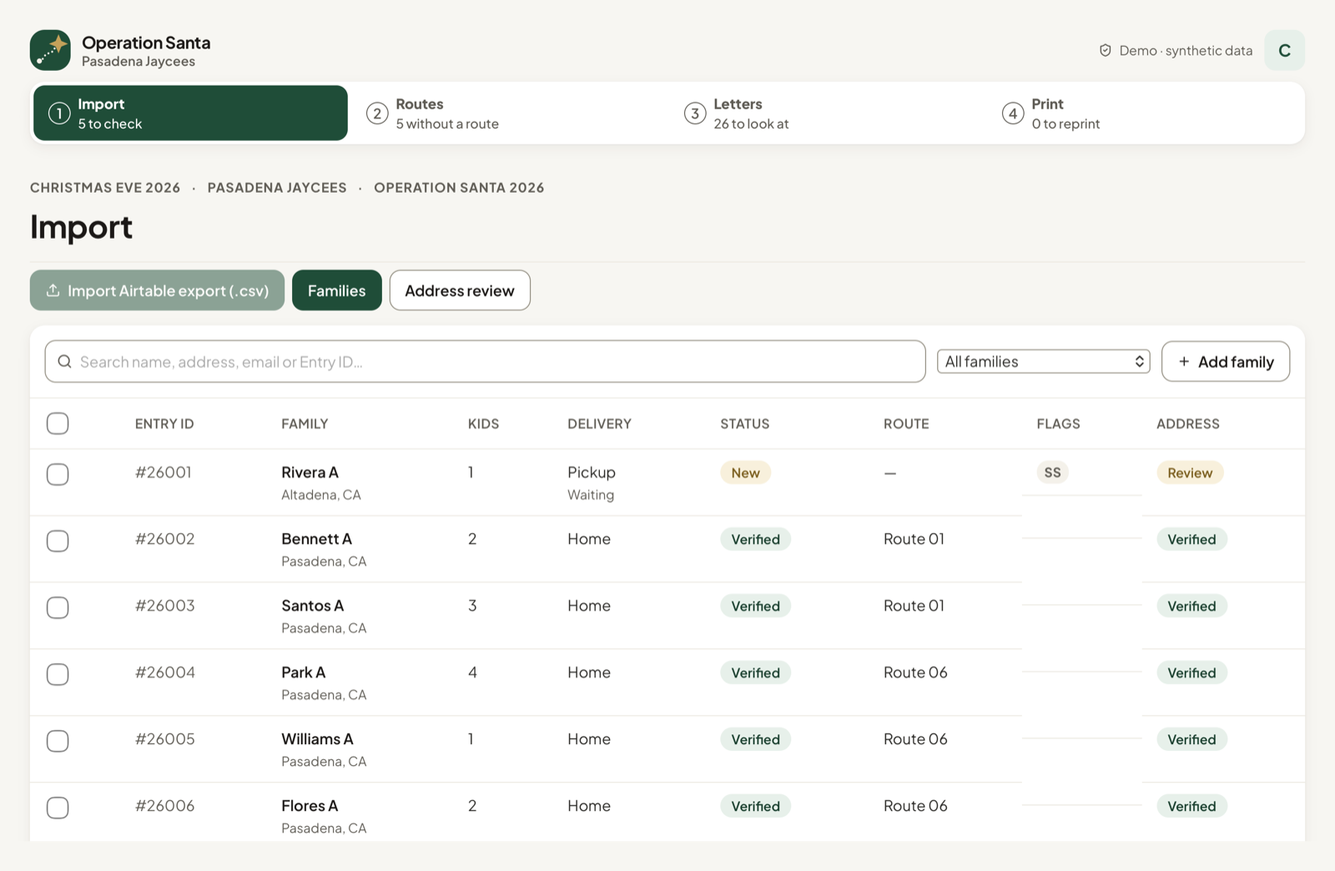
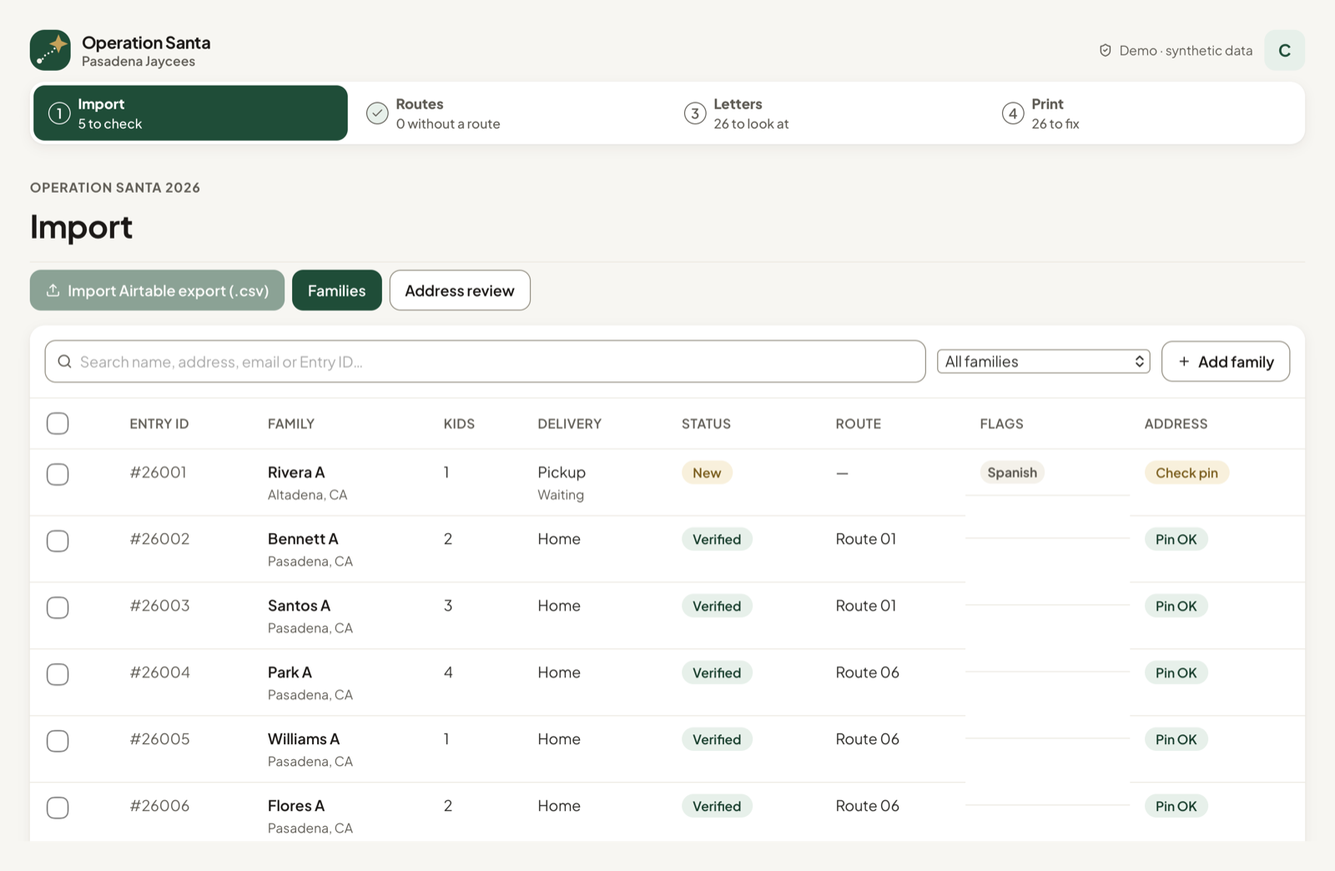
Guides, screenshots and E2E for the release UX changes
RELEASE-UX-PLAN commit 7.

- Site pages: the tour describes the four steps as the task list, with
  no Overview; Families, Letters, Address review, Teams, Settings, the
  change log, Print's checks and the import page describe the new
  behavior (translations, Airtable hold, Pin OK / Check pin, the Maps
  link, the unsaved-changes bar, the Teams table).
- Guide screenshots retaken; workspace.png replaces overview.png.
- Two E2E assertions updated for intended changes: the Routes step can
  show its check mark while families wait on addresses, and a purged
  season has no uploads panel.

diff --git a/e2e/specs/season-security.e2e.ts b/e2e/specs/season-security.e2e.ts
@@ -20,6 +20,6 @@ describe('Season security: remembered passphrase and post-season purge',()=>{
  it('reopens without asking when the keychain has the passphrase',async()=>{await lockSeason();await reopen();await toast(/Encrypted season open/);assert.equal(await $('[aria-label="Unlock your season"]').isExisting(),false,'no passphrase prompt');await mocks.secretGet.update();assert.ok(mocks.secretGet.mock.calls.some(c=>(c[0] as {name:string}).name===key),'looked up the key for this file');});
  it('falls back to asking when the remembered passphrase is wrong',async()=>{await setE2e({secrets:{[key]:'not the passphrase at all'}});await lockSeason();await reopen();await dialogText('Unlock your season');await newPassphrase(PASSPHRASE);await click('Open season');await toast(/Encrypted season open/);});
  it('purges only after the exact typed confirmation',async()=>{await nav('Settings');await seasonAction('Purge sensitive records');const warning=await dialogText('Purge sensitive records');assert.match(warning,/emails/i,'the dialog says emails are deleted');assert.match(warning,/addresses, map pins/i,'the dialog says addresses and map pins are deleted');assert.ok(!/emails[^.]*stay/i.test(warning),'the dialog must not promise to keep emails');const purge=await button('Purge now');assert.equal(await purge.isEnabled(),false);await setInput(field('Type PURGE CHILD DATA to continue'),'purge child data');assert.equal(await purge.isEnabled(),false,'lower-case confirmation is not enough');await setInput(field('Type PURGE CHILD DATA to continue'),'PURGE CHILD DATA');assert.ok(backupCount()>0,'the import took a backup in app data before the purge');await click('Purge now');await toast(/Purged families:10, children:19/,60000);assert.equal(backupCount(),0,`backups holding pre-purge data remain in ${backupsDir()}`);assert.match(await pageText(),/Purged \d/);});
- it('removes names, phones, emails, letters and drawings, keeping only counts',async()=>{await nav('Families');const t=await pageText();for(const f of families){assert.ok(!t.includes(f.name),`${f.name} survived the purge`);assert.ok(t.includes(`Family ${f.id}`));assert.ok(!t.includes(`${f.house} ${f.ordinal} ${f.street}`),`${f.id}'s address survived the purge`);}assert.match(t,/10 families · 19 children/,'counts are kept');await setInput($('input[aria-label="Search families"]'),'@example.invalid');assert.equal((await $$('tbody tr')).length,0,'no family can be found by email after the purge');await setInput($('input[aria-label="Search families"]'),'Family 26001');await $('tbody tr').click();await dialogText('Family 26001 · #26001');assert.equal(await field('Email').getValue(),'','email removed');assert.equal(await field('Phone').getValue(),'','phone removed');assert.equal(await field('Street address').getValue(),'','street removed');assert.equal(await field('ZIP code').getValue(),'','ZIP removed');assert.equal(await field('Hardship').getValue(),'','hardship answer removed');await click('Children & letters (2)');assert.equal(await field('Name').getValue(),'Child 1');assert.equal(await field('Letter to Santa').getValue(),'','letter text removed');await $('[role="dialog"] button[aria-label="Close dialog"]').click();await nav('Letter cleanup');assert.match(await pageText(),/UPLOADS\s*0\/0 ready/,'drawings removed');});
+ it('removes names, phones, emails, letters and drawings, keeping only counts',async()=>{await nav('Families');const t=await pageText();for(const f of families){assert.ok(!t.includes(f.name),`${f.name} survived the purge`);assert.ok(t.includes(`Family ${f.id}`));assert.ok(!t.includes(`${f.house} ${f.ordinal} ${f.street}`),`${f.id}'s address survived the purge`);}assert.match(t,/10 families · 19 children/,'counts are kept');await setInput($('input[aria-label="Search families"]'),'@example.invalid');assert.equal((await $$('tbody tr')).length,0,'no family can be found by email after the purge');await setInput($('input[aria-label="Search families"]'),'Family 26001');await $('tbody tr').click();await dialogText('Family 26001 · #26001');assert.equal(await field('Email').getValue(),'','email removed');assert.equal(await field('Phone').getValue(),'','phone removed');assert.equal(await field('Street address').getValue(),'','street removed');assert.equal(await field('ZIP code').getValue(),'','ZIP removed');assert.equal(await field('Hardship').getValue(),'','hardship answer removed');await click('Children & letters (2)');assert.equal(await field('Name').getValue(),'Child 1');assert.equal(await field('Letter to Santa').getValue(),'','letter text removed');await $('[role="dialog"] button[aria-label="Close dialog"]').click();await nav('Letter cleanup');const after=await pageText();assert.ok(!/UPLOADS\s*\d/.test(after)&&!after.includes('DOWNLOADING · FAILED'),`drawings removed: with no uploads left, the uploads panel is gone (RELEASE-UX-PLAN item 13). ${after.slice(0,300)}`);});
  it('stays purged after reopening the encrypted file',async()=>{await setE2e({secrets:{}});await lockSeason();await reopen();await dialogText('Unlock your season');await newPassphrase(PASSPHRASE);await click('Open season');await toast(/Encrypted season open/);await nav('Families');const t=await pageText();assert.ok(t.includes('Family 26001')&&!t.includes('Alder Test'));});
 });

diff --git a/e2e/specs/scope.e2e.ts b/e2e/specs/scope.e2e.ts
@@ -22,7 +22,9 @@ describe('Scope: only features grounded in the 2025 problems',()=>{
   await practiceSeason();
   await browser.waitUntil(async()=>(await browser.execute(()=>window.innerWidth))>=1000,{timeoutMsg:'the window did not grow into the workspace'});
   assert.deepEqual(await $$('.step-bar strong').map(el=>el.getText()),['Import','Routes','Letters','Print']);
-  assert.deepEqual(await $$('.step-bar .step-number').map(el=>el.getText()),['1','2','3','4']);
+  // A step that had work and has none left shows a check mark instead of its number (here Routes: the demo's families waiting on an address are Import's work, RELEASE-UX-PLAN item 4).
+  const numbers=await $$('.step-bar .step-number').map(async el=>(await el.getText())||await el.getAttribute('aria-label'));
+  assert.equal(numbers.length,4);numbers.forEach((n,i)=>assert.ok(n===String(i+1)||n===`Step ${i+1}, done`,`step ${i+1} shows "${n}"`));
  });
  // RELEASE-UX-PLAN items 12 and 16: Overview repeated the step bar, Routes and Print, so it's gone; the header names only the season.
  it('has no Overview, and the header names only the season',async()=>{assert.ok(!/days to Christmas Eve/.test(await pageText()));await $('button.avatar').click();await $('[role="dialog"]').waitForExist();await absent('Overview');await closeDialog();assert.equal(await $('.eyebrow').getText(),'Operation Santa 2026');assert.equal(await $('.stats-grid').isExisting(),false);});

diff --git a/e2e/guides/screenshots.e2e.ts b/e2e/guides/screenshots.e2e.ts
@@ -28,6 +28,8 @@ describe('Guide screenshots (demo season)',()=>{
  it('takes every screenshot it can',async function(){this.timeout(15*60_000);
   await snap('create-or-open',async()=>{});
   await practiceSeason();
+  // The tour's picture of the whole window (Overview, which it used to show, is gone: RELEASE-UX-PLAN item 12).
+  await snap('workspace',async()=>{await nav('Families')});
   await snap('families-filter',async()=>{await nav('Families');await $('select[aria-label="Filter families"]').click()});
   await snap('address-review',async()=>{await nav('Address review');const t=await $('//button[starts-with(normalize-space(.),"Addresses (")]');if(await t.isExisting())await t.click();await $('//button[normalize-space(.)="Pin is right"]').scrollIntoView({block:'end'})});
   await snap('letter-cleanup',async()=>{await nav('Letter cleanup')});

diff --git a/site/FEATURE-INVENTORY.md b/site/FEATURE-INVENTORY.md
@@ -20,9 +20,8 @@ Features cut on 2026-10-30 aren't listed and aren't documented anywhere on the s
 | Update offer at launch: **Install and restart** / **Later** | banner under the page title | `main.tsx`, `updates.ts`, `main.rs` `restart_app` | C | `updates.e2e.ts`, unit | `start-here/install.md` |
 | **Check for updates** | Settings ▸ "Your season, on your device" | `more.tsx`, `main.tsx` `checkUpdates` | C | `updates.e2e.ts` | `start-here/install.md` |
 | Updates paused Dec 20–26 | automatic | `updates.ts` `updateWindowOpen` | everyone | unit | `start-here/install.md`, `christmas-eve/north-pole.md` |
-| Demo season with fictional families on first launch | Overview banner, **New season** | `main.tsx`, `solver.ts` `demo`, `model.ts` `demoSeason` | everyone | `scope.e2e.ts` (runs on it) | `start-here/tour.md` |
+| Demo season with fictional families (test and guide builds only) | none in the app | `main.tsx`, `solver.ts` `demo`, `model.ts` `demoSeason` | everyone | `scope.e2e.ts` (runs on it) | `start-here/tour.md` |
 | Top bar: tab icons, badges, bell (open tasks), save state, **Import families** / **Plan routes** shortcut, avatar menu | every page | `main.tsx` | everyone | `scope.e2e.ts` (tab names) | `start-here/tour.md` |
-| Overview: stat cards, funnel, "Route overview", "Task list" | Overview | `main.tsx` | C | none | `start-here/tour.md` |
 | "Leave a note for the next person" reason prompt (8 reasons, "other" needs text) | appears only for a change to a printed route | `main.tsx` `withReason`, `model.ts` `needsReason` | C, RP, LC | `planning-and-pickup.e2e.ts`, unit | `routing/late-changes.md`, `start-here/tour.md` |
 | Error banner and toasts | every page | `main.tsx` | everyone | none | `reference/troubleshooting.md` |
 
@@ -45,7 +44,7 @@ Features cut on 2026-10-30 aren't listed and aren't documented anywhere on the s
 
 | Feature | Where in the app | Code | Who | Evidence | Guide |
 |---|---|---|---|---|---|
-| **Import families** (Airtable "Download CSV" `.csv`, or `.xlsx`) | top bar on Overview and Families | `main.tsx` `handleImport`, `importer.ts` `parseImport` | C | `journey.e2e.ts`, `airtable-export.e2e.ts`, unit | `sign-ups/import-csv.md` |
+| **Import families** (Airtable "Download CSV" `.csv`, or `.xlsx`) | Import ▸ Families | `main.tsx` `handleImport`, `importer.ts` `parseImport` | C | `journey.e2e.ts`, `airtable-export.e2e.ts`, unit | `sign-ups/import-csv.md` |
 | 2025 form profile: Entry ID, address parts, up to 13 children, hardship (any year), poverty → "Rudolph Route", Spanish detection | import | `importer.ts` `parseRows` | C | unit, `airtable-export.e2e.ts` | `sign-ups/import-csv.md`, `reference/files.md` |
 | "Review your import": new / changed / missing / uploads / proposed-flag counts, field-by-field diff, warnings (missing columns, unknown hardship answers, child-count mismatch), **Cancel import** / **Accept import** | modal | `main.tsx` | C | `journey.e2e.ts`, `airtable-export.e2e.ts` | `sign-ups/import-csv.md` |
 | Re-import is safe: in-app edits win, missing families flagged not deleted, changed addresses re-geocoded | Accept import | `importer.ts` `mergeImport` | C | `airtable-sync.e2e.ts`, unit | `sign-ups/import-csv.md` |
@@ -62,7 +61,7 @@ Features cut on 2026-10-30 aren't listed and aren't documented anywhere on the s
 |---|---|---|---|---|---|
 | Search (name, address, email, Entry ID) | Families | `main.tsx` | C, RP | none | `sign-ups/families.md` |
 | Filters: All families, Home delivery, Pickup, Special delivery, New, Verified, Not on a route, Proposed flags, Missing from latest import, Cancelled | Families | `main.tsx` | C, RP | none | `sign-ups/families.md` |
-| Table columns and flag legend (SS, ET, AAF, DNSWV, "?" proposed) | Families | `main.tsx` | C, RP | none | `sign-ups/families.md` |
+| Table columns; flags as words (Spanish, Extra toys, Adopt, Held, Airtable hold, "?" proposed); Pin OK / Check pin | Families | `main.tsx` | C, RP | none | `sign-ups/families.md` |
 | Bulk edit: **Set status…**, **Set delivery…**, **Add flag…**, **Remove flag…**, **Clear** | Families, after ticking rows | `main.tsx` `bulk` | C | none | `sign-ups/families.md` |
 | **Add family** (manual Entry IDs from 90001; never flagged missing) | Families | `main.tsx`, `model.ts` `nextManualId` | C | `scope.e2e.ts` (button present) | `sign-ups/families.md` |
 | Family editor, Details tab: contact and address, Delivery, Status, Pickup RSVP, Rudolph Route, Hardship, Answer language, flags, printed notes, coordinator notes, Route | click a row | `main.tsx` `FamilyModal` | C, RP | `journey.e2e.ts` (Save family) | `sign-ups/families.md` |
@@ -151,7 +150,7 @@ Features cut on 2026-10-30 aren't listed and aren't documented anywhere on the s
 | Feature | Where in the app | Code | Who | Evidence | Guide |
 |---|---|---|---|---|---|
 | Change log: search, newest 500, before/after, reason ("Before printing" when none) | Change log | `more.tsx` `ChangeLog`, `model.ts` `audit` | C | none | `reference/change-log.md` |
-| Change log **Export CSV** | Change log | `more.tsx` | C | none | `reference/change-log.md` |
+| Change log **Export change log (.csv)**; Change column shows before → after, search reads the values | Change log | `more.tsx` | C | none | `reference/change-log.md` |
 | Settings: Season, North Pole and delivery window, Service area, Printing (children per bag), Advanced, Airtable; **Save settings** with validation | Settings | `more.tsx` | C | `airtable-sync.e2e.ts`, `cleanup-packets.e2e.ts` | `reference/settings.md` |
 | Settings ▸ Advanced switches, off by default: **Airtable Sync**, **Send letters to helpers**. With a switch off, its buttons aren't rendered | Settings | `model.ts` `features`, `more.tsx` | C | `scope.e2e.ts`, `airtable-sync.e2e.ts`, `cleanup-packets.e2e.ts`, unit | `reference/settings.md` |
 | **Purge sensitive records**: type PURGE CHILD DATA, **Purge now**; deletes backups; Jan 31 reminder | Settings ▸ "After the season" | `main.tsx`, `workflow.ts` `purge`, `main.rs` `vacuum_season`/`purge_backups` | C | `season-security.e2e.ts`, unit | `after-the-season/purge.md` |
@@ -163,5 +162,5 @@ Features cut on 2026-10-30 aren't listed and aren't documented anywhere on the s
 | Browser preview (`npm run dev`) | Developer tool with synthetic data only. Covered by the repo README. |
 | E2E build (`e2e` Cargo feature) | Must never reach volunteers. Covered by `e2e/README.md`. |
 | ~~Family statuses "delivered" and "missed"~~ | Removed (Nov 5): older season files turn them back into routed or verified. |
-| Overview funnel (Imported → Verified → Geocoded → Routed) | Described in one line in the tour. The 2026-10-30 audit called it "not grounded"; it's still in the app. See open questions. |
+| Overview page (stat cards, funnel, Route overview, Task list) and its season-menu and menu-bar items | Removed (Nov 20): the step bar, Routes and Print already show all of it. |
 | `asset_*`, `vacuum_season`, `write_export` and other internal commands | No direct user action; they run behind the features above. |

diff --git a/site/start-here/tour.md b/site/start-here/tour.md
@@ -2,7 +2,7 @@
 title: A tour of the app
 parent: Start here
 nav_order: 3
-description: "The top bar, the Overview task list, and the reason prompt you'll see after printing."
+description: "The four steps along the top, and the reason prompt you'll see after printing."
 ---
 
 # A tour of the app
@@ -13,39 +13,20 @@ description: "The top bar, the Overview task list, and the reason prompt you'll 
 1. TOC
 {:toc}
 
-![The whole app window on the demo season's Overview, with the navigation along the top]({{ '/assets/images/overview.png' | relative_url }})
+![The whole app window on the demo season, with the four steps along the top]({{ '/assets/images/workspace.png' | relative_url }})
 
 ## The top bar
 
-The four numbered steps show how much work remains in the open season.
+The four numbered steps are the app's task list. Each says how much work is left in the open season and gets a check mark once it had work and none is left.
 
-| Step | What you can do |
-|---|---|
-| **1 Import** | Import a sign-up export, search Families, and open Address review. |
-| **2 Routes** | Plan deliveries, assign Teams, and adjust Route settings. |
-| **3 Letters** | Review the letters the app flags. |
-| **4 Print** | Check route packets, export PDFs, and reprint changed routes. |
+| Step | What you can do | What its count means |
+|---|---|---|
+| **1 Import** | Import a sign-up export, search Families, and open Address review. | Addresses, duplicates, out-of-area families and proposed flags to check. While there are any, clicking the step opens Address review. |
+| **2 Routes** | Plan deliveries, assign Teams, and adjust Route settings. | Families you could put on a route now. Families still waiting on an address are counted in step 1. |
+| **3 Letters** | Review the letters the app flags. | Letters that need a look. |
+| **4 Print** | Check route packets, export PDFs, and reprint changed routes. | Before anything is printed: the problems that block printing. After that: the routes to reprint. |
 
-Click the Operation Santa logo for the **Overview**. The save indicator beside your initial shows when a change reaches the encrypted file. Click your initial for **Your season**. This menu holds **Settings**, **Change log**, and the commands to open, create or lock a season. It also holds the purge command and, on builds with automatic updates, **Check for updates**.
-
-## The Overview
-
-The Overview answers "what's left to do?"
-
-- **Stat cards**: families signed up (home, pickup and special), children and drawings ready, routes planned, and packets ready to print.
-- **A progress strip**: how many families are imported, verified, geocoded and routed.
-- **Route overview**: the first eight routes, with leave and return times, stops, miles and team. Click one to open it in **2 Routes**.
-- **Task list**: each line is a job with a count. Click it to go to the right page. When its count reaches zero it gets a check mark.
-
-| Task | Goes to |
-|---|---|
-| Review addresses | 1 Import ▸ Address review |
-| Confirm proposed flags | 1 Import ▸ Address review |
-| Look at flagged letters | 3 Letters |
-| Fix uploads | 3 Letters |
-| Find a route for everyone | 2 Routes |
-| Assign every route a team | 2 Routes |
-| Reprint changed packets | 4 Print |
+The line above each page's title is the name of the season file that's open. The save indicator beside your initial shows when a change reaches the encrypted file. Click your initial for **Your season**. This menu holds **Settings**, **Change log**, and the commands to open, create or lock a season. It also holds the purge command and, on builds with automatic updates, **Check for updates**.
 
 ## Messages
 

diff --git a/site/reference/settings.md b/site/reference/settings.md
@@ -16,7 +16,7 @@ description: "Every setting in the Settings page, its default, and what it chang
 {: .why }
 In 2025 the routing settings lived in each MyRouteOnline account and the print layout lived in a Word template on one laptop. Here they're stored in the season file itself, so everyone working on the season uses the same ones.
 
-Change any value under "Season settings", then click **Save settings** at the bottom. If the change alters a printed packet (start time, North Pole address, children per bag, street address on labels), the app asks for a reason, and every changed setting is recorded in the [Change log]({{ '/reference/change-log/' | relative_url }}).
+Change any value under "Season settings", then click **Save** in the "Unsaved changes" bar (or **Save settings** at the bottom). Settings is the one page that doesn't save by itself, because these values change every route. **Discard** puts the saved values back, and opening another page with unsaved changes asks first. If the change alters a printed packet (start time, North Pole address, children per bag, street address on labels), the app asks for a reason, and every changed setting is recorded in the [Change log]({{ '/reference/change-log/' | relative_url }}).
 
 ![The Settings page on the demo season]({{ '/assets/images/settings.png' | relative_url }})
 
@@ -31,7 +31,7 @@ Change any value under "Season settings", then click **Save settings** at the bo
 
 | Setting | Default | What it does |
 |---|---|---|
-| North Pole address | 150 N Madison Ave, Pasadena, CA 91101 | Where every route starts and ends. Printed on covers and used in phone links. If you change it, change "Depot latitude" and "Depot longitude" under Advanced too. |
+| North Pole address | 150 N Madison Ave, Pasadena, CA 91101 | Where every route starts and ends. Printed on covers and used in phone links. If you change it, change "North Pole latitude" and "North Pole longitude" under Advanced too. |
 | North Pole phone (printed on packets) | blank | The number team leads call on the night. Fill it in. |
 | Departure time | 4:30 PM | When routes leave (a single route can start at a different time in the Route planner). |
 | Delivery window ends | 8:30 PM | The end of the visiting window. |
@@ -58,7 +58,7 @@ Leave these as they are unless you know why.
 
 | Setting | Default | What it does |
 |---|---|---|
-| Depot latitude / Depot longitude | 34.1478 / -118.1445 | The North Pole on the map. **If you change the North Pole address, change these too.** |
+| North Pole latitude / North Pole longitude | 34.1478 / -118.1445 | The North Pole on the map. **If you change the North Pole address, change these too.** |
 | Stops per Google Maps link (max 9) | 9 | How many stops each phone link and QR code covers. |
 | Flag letters longer than (characters) | 1500 | Letters longer than this need a look in Letter cleanup. |
 

diff --git a/site/sign-ups/letter-cleanup.md b/site/sign-ups/letter-cleanup.md
@@ -21,7 +21,7 @@ For 2026 the letters are cleaned outside the app, in Airtable and with a hand ch
 
 ## Uploads: drawings and uploaded letters
 
-The top of the page shows:
+When the season has uploads, the top of the page shows:
 
 - "UPLOADS": how many are ready to print, out of how many.
 - "DOWNLOADING · FAILED · BY HAND": still downloading, failed, and ones a person needs to handle.
@@ -37,7 +37,7 @@ What happens to each kind of upload:
 
 Downloads start by themselves after an import and whenever the season opens. **Retry failed** tries the failed ones again.
 
-The **Uploads to check** tab lists every child with an upload that isn't ready. For each failed upload you can click **Retry**, or **Skip upload (print placeholder)**: the letter then prints "Letter submitted online — ask the coordinator" where the drawing would be.
+The **Uploads to check** tab lists every child with an upload that isn't ready. The tab and the uploads counts appear only when the season has uploads. For each failed upload you can click **Retry**, or **Skip upload (print placeholder)**: the letter then prints "Letter submitted online — ask the coordinator" where the drawing would be.
 
 {: .note }
 Some iPhone photos (HEIC) can't be decoded on every computer: "HEIC photo could not be decoded here. Ask the family for a JPEG." If a link has expired, import a fresh CSV from Airtable and the drawing downloads again.
@@ -52,7 +52,11 @@ A letter **needs a look** when:
 - its upload failed, or can't be shown (a Google Docs link, for example);
 - or someone clicked **Flag** on it.
 
-Every other letter counts as read and prints as imported.
+Every other letter counts as read and prints as imported. Under the "Needs a look" badge, the app says why: for example "Contains a phone number, email, or link", "Flagged by Robin" or "Upload failed".
+
+### Spanish letters and their translations
+
+When the team has written an English translation of a Spanish letter in Airtable (children 1 to 6 have a translation field), the app imports it. Letters shows it under the original letter, and the printed letter has it under the original, headed "English translation". A phone number, email or link in the translation makes the letter need a look too. Translations are only edited in Airtable: change one there and import again.
 
 1. Open **3 Letters**. The first tab says how many letters need a look, for example "6 to look at", and shows them one at a time: "Ana's letter · Rivera A · Entry #26001 · 1 of 6".
 2. On the left: the **original letter**, the child's **gift wishes** (first and second choice, age), and any drawings.

diff --git a/site/routing/teams.md b/site/routing/teams.md
@@ -28,9 +28,9 @@ A team lead's name and phone number go on the cover of their packet, and on the 
    - tick "Spanish-speaking team member" if someone on the team speaks Spanish
 3. Click **Save team**.
 
-To change a team, click the **⋯** button on its card. **Remove team** is at the bottom of that box; it also takes the team off its route.
+Teams are one table: team, lead, phone, Spanish speaker and route. To change a team, click the **⋯** button at the end of its row. **Remove team** is at the bottom of that box; it also takes the team off its route. With many teams the table scrolls on its own, under its headings.
 
-![The Teams page on the demo season with eight team cards]({{ '/assets/images/teams.png' | relative_url }})
+![The Teams table on the demo season with eight teams]({{ '/assets/images/teams.png' | relative_url }})
 
 ## Import teams from a spreadsheet
 
@@ -53,6 +53,6 @@ Click **Import CSV** and choose the file. The message says how many teams were i
 2. Under the map, choose from **Team**. Each choice shows the lead's name, "ES" if the team has a Spanish speaker, and "(also Route 5)" if the team already has a route.
 3. If the route has been printed, the app asks for a reason, and the route will need a reprint, because the team is on the cover.
 
-A team can run two short routes: give both routes the same team. The Overview's task list counts "routes without a team" until every route has one.
+A team can run two short routes: give both routes the same team. A route without a team can't print: Print's check says "Assign a team."
 
 Rebalancing keeps each route's team when the route keeps most of its families.

diff --git a/site/reference/change-log.md b/site/reference/change-log.md
@@ -27,13 +27,15 @@ What's recorded: imports and syncs, family edits and merges, address pins, flag 
 
 ## Find a change
 
-Type in "Entry ID, field, reason…" to filter: an Entry ID like `26014`, a word like `route` or `frozen`, a reason like `added late`, or a person's name. The page shows the newest 500 matches.
+Each row's **Change** column says what changed, for example "route: Unrouted → Route 01". Long values are shortened; hover over one to see all of it.
+
+Type in "Entry ID, route, field, reason…" to filter: an Entry ID like `26014`, a route like `Route 05` (it finds families moved onto or off that route), a word like `frozen`, a reason like `added late`, or a person's name. The page shows the newest 500 matches.
 
 A family's own changes are also on their card's **History** tab in Families.
 
 ## Export
 
-Click **Export CSV** to save `Operation Santa change log.csv` with every change: When, Who, Record, Field, Before, After and Reason.
+Click **Export change log (.csv)** to save `Operation Santa change log.csv` with every change: When, Who, Record, Field, Before, After and Reason.
 
 {: .warning }
 The export isn't encrypted, and the before and after values can include names and addresses. Keep it private and delete it after the season. The [purge]({{ '/after-the-season/purge/' | relative_url }}) clears the change log inside the app, but not exported copies.

diff --git a/site/sign-ups/families.md b/site/sign-ups/families.md
@@ -31,11 +31,11 @@ The list shows the first 400 matches; narrow the search to see others. The foote
 | ENTRY ID | The form's Entry ID. Families added by hand start at #90001. |
 | FAMILY | Name and city, plus "missing from latest import" if the last import didn't include them. |
 | KIDS | Number of children. |
-| DELIVERY | home, pickup or special. Pickup families also show their RSVP. |
-| STATUS | new, verified, routed or cancelled. |
+| DELIVERY | Home, Pickup or Special. Pickup families also show their RSVP. |
+| STATUS | New, Verified, Routed or Cancelled. |
 | ROUTE | The route they're on, or —. |
-| FLAGS | Short codes: SS Spanish speaker, ET extra toys, AAF adopt-a-family, DNSWV held by coordinator ("do not share with volunteers"). A **?** means proposed flags are waiting. |
-| ADDRESS | verified or manual (good to route), or pending, review or failed (needs a look). |
+| FLAGS | Short words: Spanish, Extra toys, Adopt, Held (held by the coordinator: "do not share with volunteers"). **Airtable hold** means the team marked the family "Issue, Investigating" in Airtable. A **?** means proposed flags are waiting. |
+| ADDRESS | **Pin OK** (good to route) or **Check pin** (still to look up or check in Address review). |
 
 ![The Families list on the demo season, with the filter next to the search box]({{ '/assets/images/families-filter.png' | relative_url }})
 

diff --git a/site/sign-ups/address-review.md b/site/sign-ups/address-review.md
@@ -34,7 +34,7 @@ Only the street, city, state and ZIP leave the computer, never names, unit numbe
 
 The **Addresses** tab lists misses, low-confidence matches and addresses that need a valid ZIP code.
 
-1. Click a family on the left. The map on the right shows where the app thinks they are.
+1. Click a family on the left. The map on the right shows only that family's pin and the North Pole. To see the street, click **Open in Google Maps**: it searches the family's street, city and ZIP in your web browser.
 2. If there's a yellow "Geocoder suggestion" and it's the right place, click **Accept suggestion**.
 3. If the address itself is wrong (a typo, the unit in the street field), click **Edit address**, fix it, and click **Save family**. The family is looked up again next time you geocode.
 4. If the address is right but the pin is wrong, put the pin where the front door is:

diff --git a/site/printing/print-center.md b/site/printing/print-center.md
@@ -49,6 +49,7 @@ Each route also has its own card saying "Ready to export", "Ready · 2 warnings"
 | Route exceeds the delivery limit. | Route planner: move stops off, or add a team and rebalance |
 | #26014: review the address. | Address review |
 | #26014: placeholder text in the address or name. | Families: remove "None", "N/A" or similar |
+| #26014: on hold in Airtable (Issue, Investigating). Resolve it there, then re-import. | Airtable: sort the family out and set Status to Checked, then import a fresh export. The family stays on its route meanwhile. |
 | #26014: cancelled family is still routed. / pickup family is still routed. | Route planner: **Remove from route** |
 | #26014: child 2's letter needs a look. | Letter cleanup |
 | #26014: child 1's letter is empty and has no upload. | Letter cleanup, or Families ▸ Children & letters |
